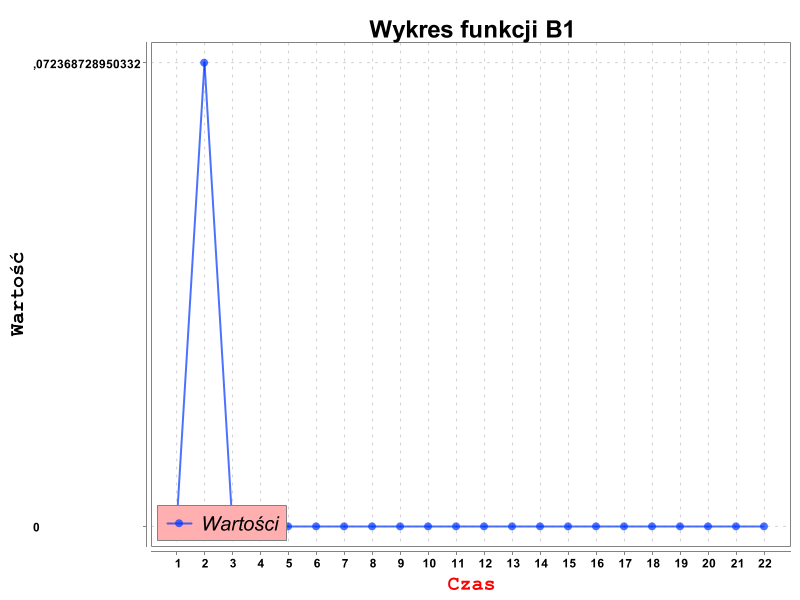
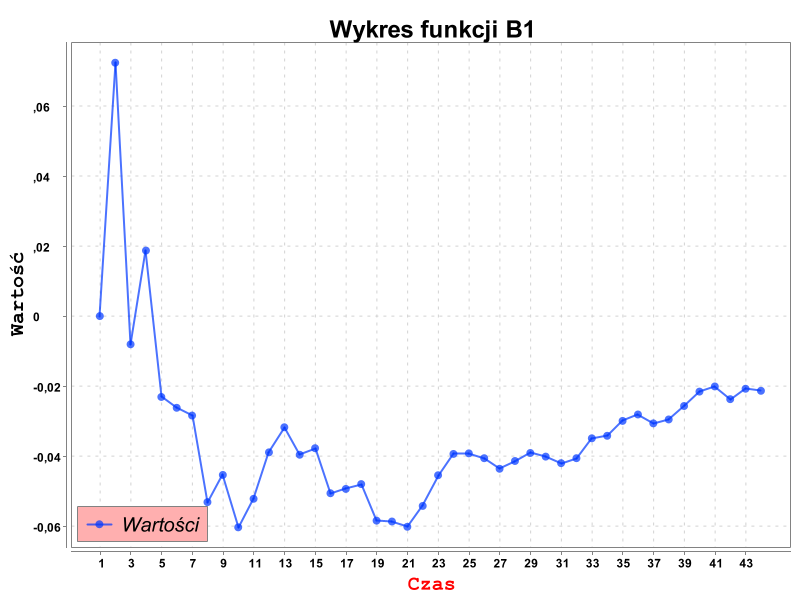
dopracowanie

diff --git a/lab-1/zadanie4/ZadanieCzteryBTrzy.java b/lab-1/zadanie4/ZadanieCzteryBTrzy.java
@@ -10,20 +10,21 @@ import java.io.IOException;
 //NUNER FUNKCJI: 3
 public class ZadanieCzteryBTrzy {
     public static void main(String[] args) {
-        double tc = 1;
+        double tc = 2;
         double fs = 22.05;
         double N = (fs * tc);
         double[] tab = new double[(int) N];
         double b3 = 0;
-        for (int n = 1; n <= 50; n++) {
-            double t = n / fs;
-            double gora = Math.cos(4*Math.PI*n*t);
-            double dol = 4*n*(Math.sin(8*Math.PI*n*t)+2);
-            b3 += gora / dol;
-            tab[n] = b3;
-            System.out.println("B3 " + n + ": " + b3);
+        for(int l = 0;l<50;l++) {
+            for (int n = 1; n <= N - 1; n++) {
+                double t = n / fs;
+                double gora = Math.cos(4 * Math.PI * n * t);
+                double dol = 4 * n * (Math.sin(8 * Math.PI * n * t) + 2);
+                b3 += gora / dol;
+                tab[n] = b3;
+                System.out.println("B3 " + n + ": " + b3);
+            }
         }
-
         XYChart chart = new XYChartBuilder().width(800).height(600).title("Wykres funkcji B3").xAxisTitle("Czas").yAxisTitle("Wartość").build();
 
         XYSeries series = chart.addSeries("Wartości", null, tab);

diff --git a/lab-1/zadanie4/ZadanieCzteryBDwa.java b/lab-1/zadanie4/ZadanieCzteryBDwa.java
@@ -10,20 +10,21 @@ import java.io.IOException;
 //NUNER FUNKCJI: 3
 public class ZadanieCzteryBDwa {
     public static void main(String[] args) {
-        double tc = 1;
+        double tc = 2;
         double fs = 22.05;
         double N = (fs * tc);
         double[] tab = new double[(int) N];
         double b2 = 0;
-        for (int n = 1; n <= 5; n++) {
-            double t = n / fs;
-            double gora = Math.cos(4*Math.PI*n*t);
-            double dol = 4*n*(Math.sin(8*Math.PI*n*t)+2);
-            b2 += gora / dol;
-            tab[n] = b2;
-            System.out.println("B2 " + n + ": " + b2);
+        for(int l = 0;l<5;l++) {
+            for (int n = 1; n <= N-1; n++) {
+                double t = n / fs;
+                double gora = Math.cos(4 * Math.PI * n * t);
+                double dol = 4 * n * (Math.sin(8 * Math.PI * n * t) + 2);
+                b2 += gora / dol;
+                tab[n] = b2;
+                System.out.println("B2 " + n + ": " + b2);
+            }
         }
-
         XYChart chart = new XYChartBuilder().width(800).height(600).title("Wykres funkcji B2").xAxisTitle("Czas").yAxisTitle("Wartość").build();
 
         XYSeries series = chart.addSeries("Wartości", null, tab);

diff --git a/lab-1/zadanie4/ZadanieCzteryBJeden.java b/lab-1/zadanie4/ZadanieCzteryBJeden.java
@@ -10,18 +10,20 @@ import java.io.IOException;
 //NUNER FUNKCJI: 3
 public class ZadanieCzteryBJeden {
     public static void main(String[] args) {
-        double tc = 1;
+        double tc = 2;
         double fs = 22.05;
         double N = (fs * tc);
         double[] tab = new double[(int) N];
         double b1 = 0;
-        for (int n = 1; n <= 1; n++) {
-            double t = n / fs;
-            double gora = Math.cos(4*Math.PI*n*t);
-            double dol = 4*n*(Math.sin(8*Math.PI*n*t)+2);
-            b1 += gora / dol;
-            tab[n] = b1;
-            System.out.println("B1 " + n + ": " + b1);
+        for(int l = 0;l<1;l++) {
+            for (int n = 1; n <= N - 1; n++) {
+                double t = n / fs;
+                double gora = Math.cos(4 * Math.PI * n * t);
+                double dol = 4 * n * (Math.sin(8 * Math.PI * n * t) + 2);
+                b1 += gora / dol;
+                tab[n] = b1;
+                System.out.println("B1 " + n + ": " + b1);
+            }
         }
 
         XYChart chart = new XYChartBuilder().width(800).height(600).title("Wykres funkcji B1").xAxisTitle("Czas").yAxisTitle("Wartość").build();
